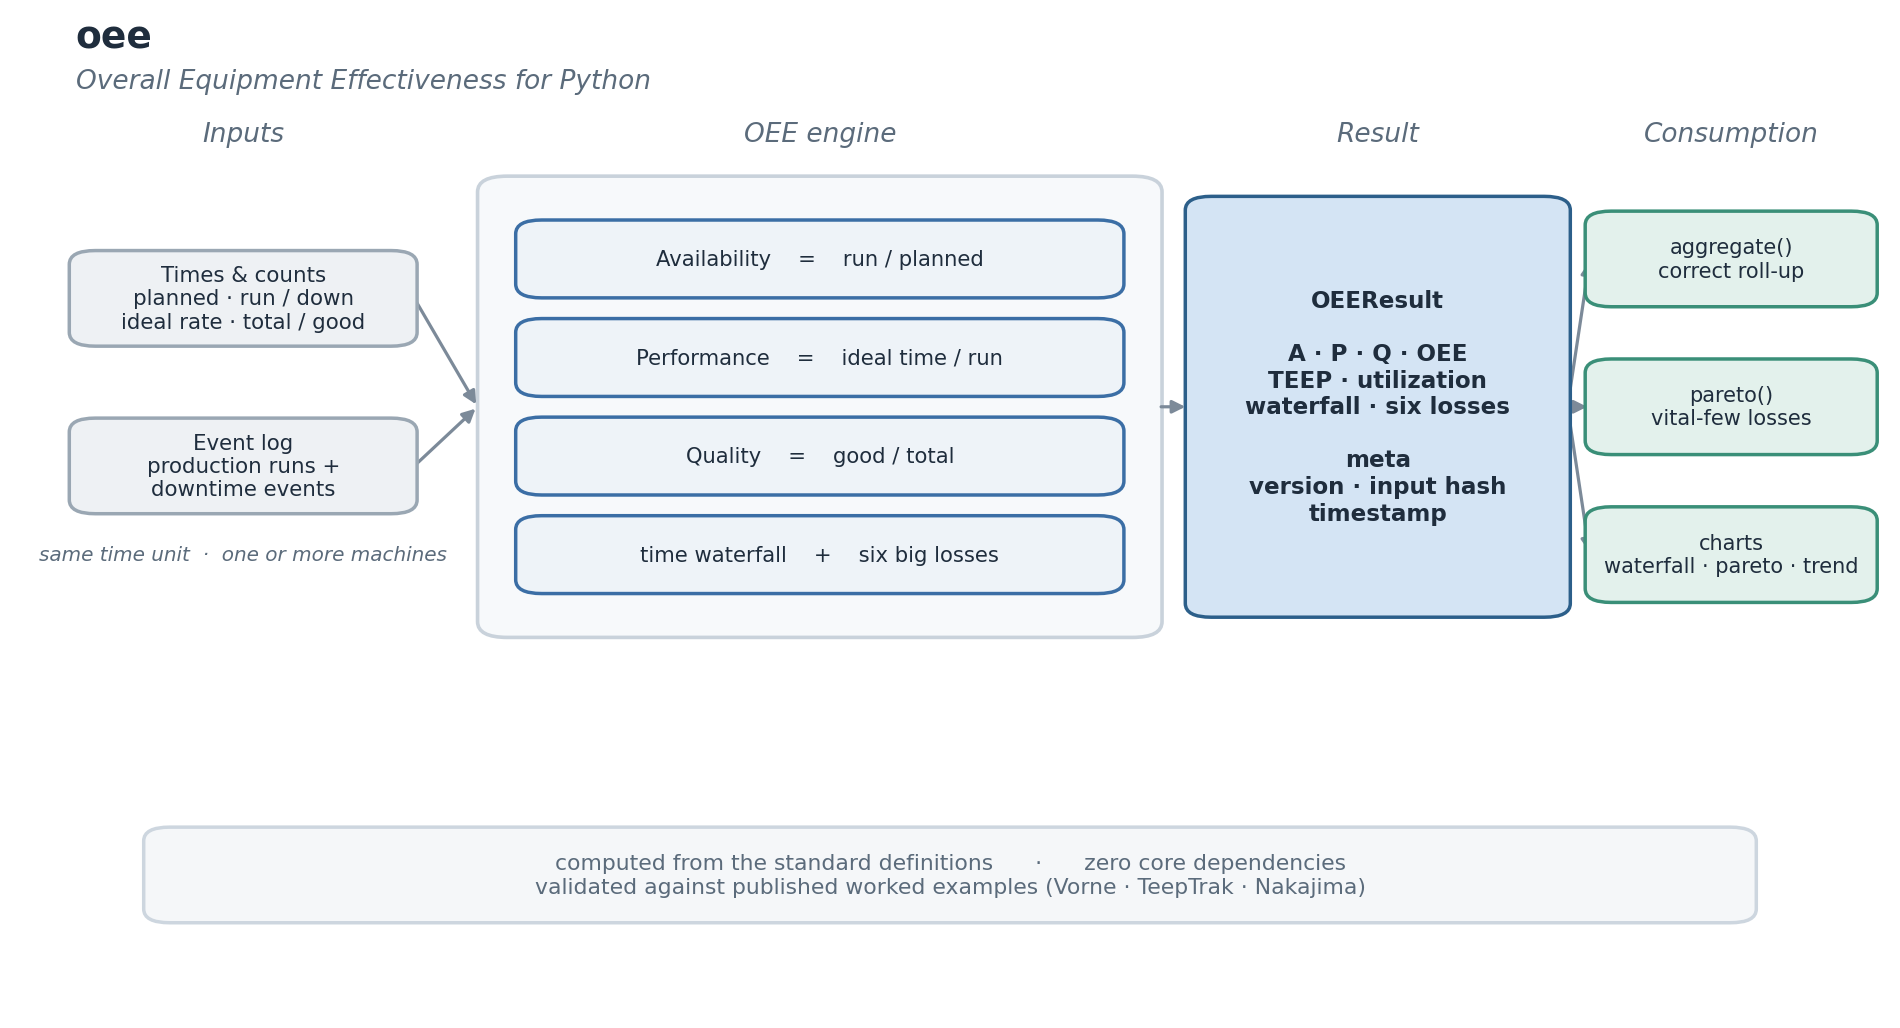
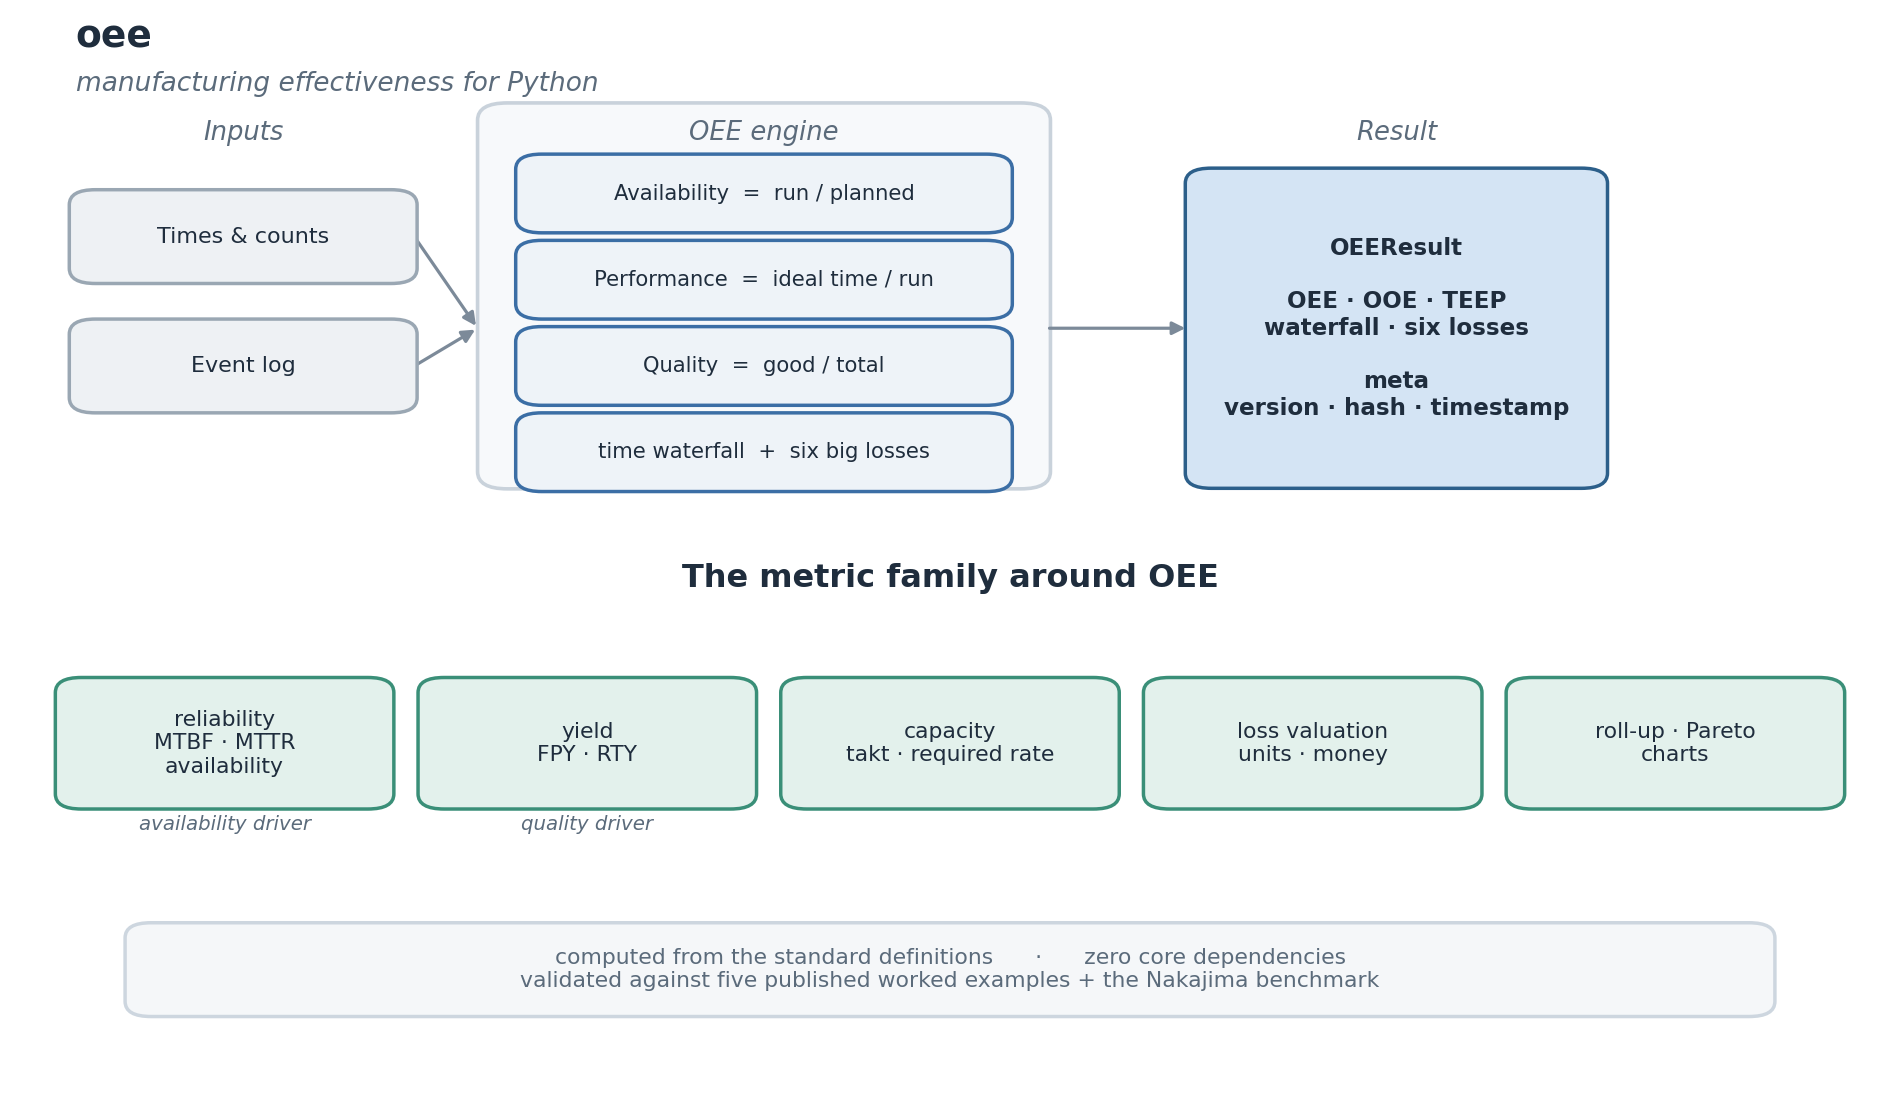
Update framework figure for the 0.2.0 metric family

diff --git a/assets/framework.py b/assets/framework.py
@@ -1,7 +1,7 @@
 """Generate the oee framework figure (academic style).
 
-The flow: inputs (times and counts, or an event log), the OEE engine, the
-OEEResult, and how it is consumed.
+Top: the OEE core (inputs, the engine, the OEEResult). Bottom: the metric
+family around OEE.
 Run:  python assets/framework.py
 """
 
@@ -22,7 +22,7 @@ CONT_F, CONT_E = "#f7f9fb", "#c9d2db"
 BAN_F, BAN_E = "#f5f7f9", "#cdd6df"
 ARROW = "#7c8a99"
 
-fig, ax = plt.subplots(figsize=(12, 6.4))
+fig, ax = plt.subplots(figsize=(12, 7.0))
 ax.set_xlim(0, 100)
 ax.set_ylim(0, 100)
 ax.axis("off")
@@ -44,57 +44,54 @@ def arrow(x0, y0, x1, y1, color=ARROW, lw=1.15):
 
 
 ax.text(3, 97.5, "oee", fontsize=13.5, fontweight="bold", color=INK, ha="left")
-ax.text(3, 93.3, "Overall Equipment Effectiveness for Python", fontsize=9.5,
+ax.text(3, 93.5, "manufacturing effectiveness for Python", fontsize=9.5,
         color=MUT, ha="left", fontstyle="italic")
 
-for x, t in [(12, "Inputs"), (43, "OEE engine"), (73, "Result"),
-             (92, "Consumption")]:
-    ax.text(x, 88, t, ha="center", fontsize=9.5, color=MUT, fontstyle="italic")
+# ---- Top tier: the OEE core ------------------------------------------------
+for x, t in [(12, "Inputs"), (40, "OEE engine"), (74, "Result")]:
+    ax.text(x, 89, t, ha="center", fontsize=9.3, color=MUT, fontstyle="italic")
 
-# inputs
-box(12, 72, 18, 9, "Times & counts\nplanned · run / down\nideal rate · total / good",
-    NEUT_F, NEUT_E, fs=7.7)
-box(12, 55, 18, 9, "Event log\nproduction runs +\ndowntime events", NEUT_F, NEUT_E,
-    fs=7.7)
-ax.text(12, 45.5, "same time unit  ·  one or more machines", ha="center",
-        fontsize=7.2, color=MUT, fontstyle="italic")
+box(12, 80, 18, 8, "Times & counts", NEUT_F, NEUT_E, fs=8.0)
+box(12, 68, 18, 8, "Event log", NEUT_F, NEUT_E, fs=8.0)
 
-# engine container
-ax.add_patch(FancyBboxPatch((25, 38), 36, 46,
+ax.add_patch(FancyBboxPatch((25, 57), 30, 35,
              boxstyle="round,pad=0.4,rounding_size=1.6",
              linewidth=1.3, edgecolor=CONT_E, facecolor=CONT_F, zorder=0))
-rows = [
-    (76, "Availability    =    run / planned"),
-    (66, "Performance    =    ideal time / run"),
-    (56, "Quality    =    good / total"),
-    (46, "time waterfall    +    six big losses"),
-]
-for y, t in rows:
-    box(43, y, 32, 7.2, t, ANA_F, ANA_E, fs=7.6)
+for y, t in [(84, "Availability  =  run / planned"),
+             (76, "Performance  =  ideal time / run"),
+             (68, "Quality  =  good / total"),
+             (60, "time waterfall  +  six big losses")]:
+    box(40, y, 26, 6.6, t, ANA_F, ANA_E, fs=7.6)
 
-# result
-box(73, 61, 20, 42,
-    "OEEResult\n\nA · P · Q · OEE\nTEEP · utilization\nwaterfall · six losses\n\n"
-    "meta\nversion · input hash\ntimestamp",
+box(74, 71.5, 22, 29,
+    "OEEResult\n\nOEE · OOE · TEEP\nwaterfall · six losses\n\n"
+    "meta\nversion · hash · timestamp",
     RES_F, RES_E, fs=8.3, bold=True)
 
-# consumption
-cons = [(76, "aggregate()\ncorrect roll-up"), (61, "pareto()\nvital-few losses"),
-        (46, "charts\nwaterfall · pareto · trend")]
-for y, t in cons:
-    box(92, y, 15, 9, t, OPT_F, OPT_E, fs=7.5)
+for y in (80, 68):
+    arrow(21.2, y, 24.6, 71.5)
+arrow(55.2, 71.5, 62.8, 71.5)
 
-# arrows
-for y in (72, 55):
-    arrow(21.2, y, 24.6, 61)
-arrow(61.2, 61, 62.8, 61)
-for y in (76, 61, 46):
-    arrow(83.2, 61, 84.4, y)
+# ---- Bottom tier: the metric family ----------------------------------------
+ax.text(50, 47.5, "The metric family around OEE", ha="center", fontsize=11.5,
+        fontweight="bold", color=INK)
 
-# banner
-box(50, 13.5, 86, 9,
+family = [
+    (11, "reliability\nMTBF · MTTR\navailability", "availability driver"),
+    (30.5, "yield\nFPY · RTY", "quality driver"),
+    (50, "capacity\ntakt · required rate", None),
+    (69.5, "loss valuation\nunits · money", None),
+    (89, "roll-up · Pareto\ncharts", None),
+]
+for x, t, annot in family:
+    box(x, 33, 17.5, 11.5, t, OPT_F, OPT_E, fs=7.9)
+    if annot:
+        ax.text(x, 25, annot, ha="center", fontsize=7.1, color=MUT,
+                fontstyle="italic")
+
+box(50, 12, 88, 8,
     "computed from the standard definitions      ·      zero core dependencies\n"
-    "validated against published worked examples (Vorne · TeepTrak · Nakajima)",
+    "validated against five published worked examples + the Nakajima benchmark",
     BAN_F, BAN_E, fs=7.9, tcol=MUT)
 
 fig.savefig("assets/framework.png", dpi=200, bbox_inches="tight",